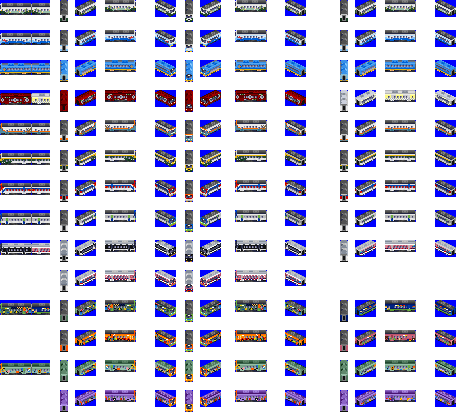
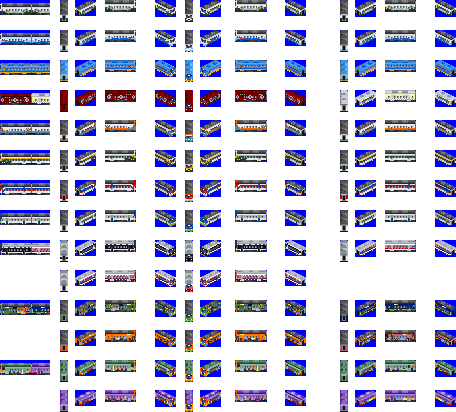
Fix #212: CDC Gyeongbuk theme's shade problem & wagon livery order

diff --git a/docs/changelog.md b/docs/changelog.md
@@ -6,6 +6,7 @@
  * 변경: 의정부경전철 그래픽 [#211]
  * 변경: 인천공항자기부상열차 그래픽 [#211]
  * 수정 & 변경: 누리로의 팬터그래프 방향이 잘못됨 + 누리로 그래픽 개선 [#140]
+ * 수정: CDC 경북순환테마열차 그래픽 명암 및 구 도색의 객차 순서가 잘못되어 있던 점 [#212]
 
 2.0.4
 -----
